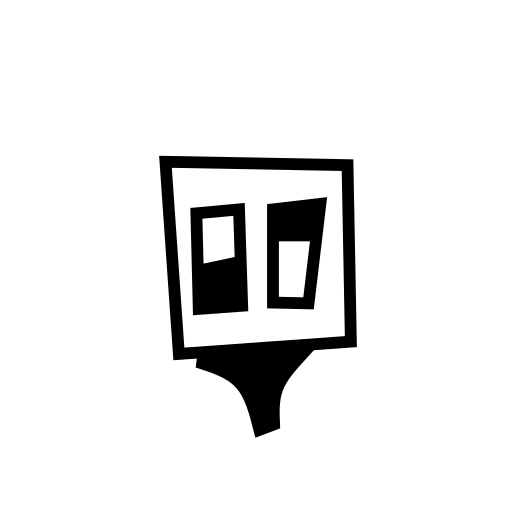
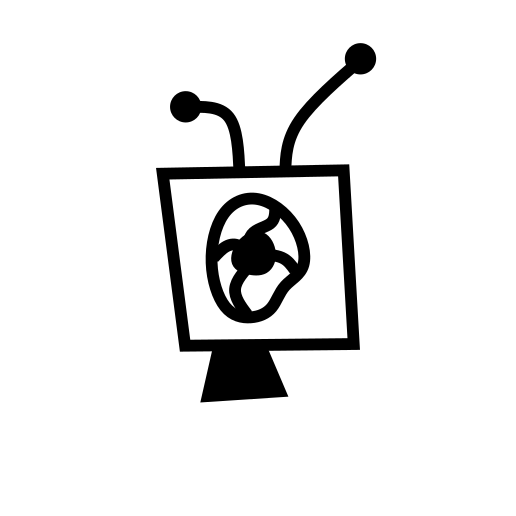
added antennas support :)

Changed region(s): [[0.2791, 0.062, 0.7442, 0.8682]]

diff --git a/generator.py b/generator.py
@@ -1,14 +1,24 @@
 from PIL import Image
 import random
 import os
+
 images_path = 'images/png/'
-body_path = images_path + 'body/'
 background_path = images_path + 'background/'
-avatar = Image.open(background_path + '/background.png');
+body_path = images_path + 'body/'
+antennas_path = images_path + 'antennas/'
+antennas_category = '2antennas'
+
+avatar = Image.open(background_path + '/background.png')
+
 for dir in os.listdir(body_path):
     max_number = len(os.listdir(body_path+dir))
     random_number = str(random.randint(1,max_number))
     part = Image.open(body_path+dir+"/"+dir+random_number+".png")
     avatar = Image.alpha_composite(avatar, part)
+
+max_number = len(os.listdir(antennas_path+antennas_category))
+random_number = str(random.randint(1,max_number))
+part = Image.open(antennas_path+antennas_category+"/"+antennas_category+random_number+".png")
+avatar = Image.alpha_composite(avatar, part)
 
 avatar.save("avatar.png")
